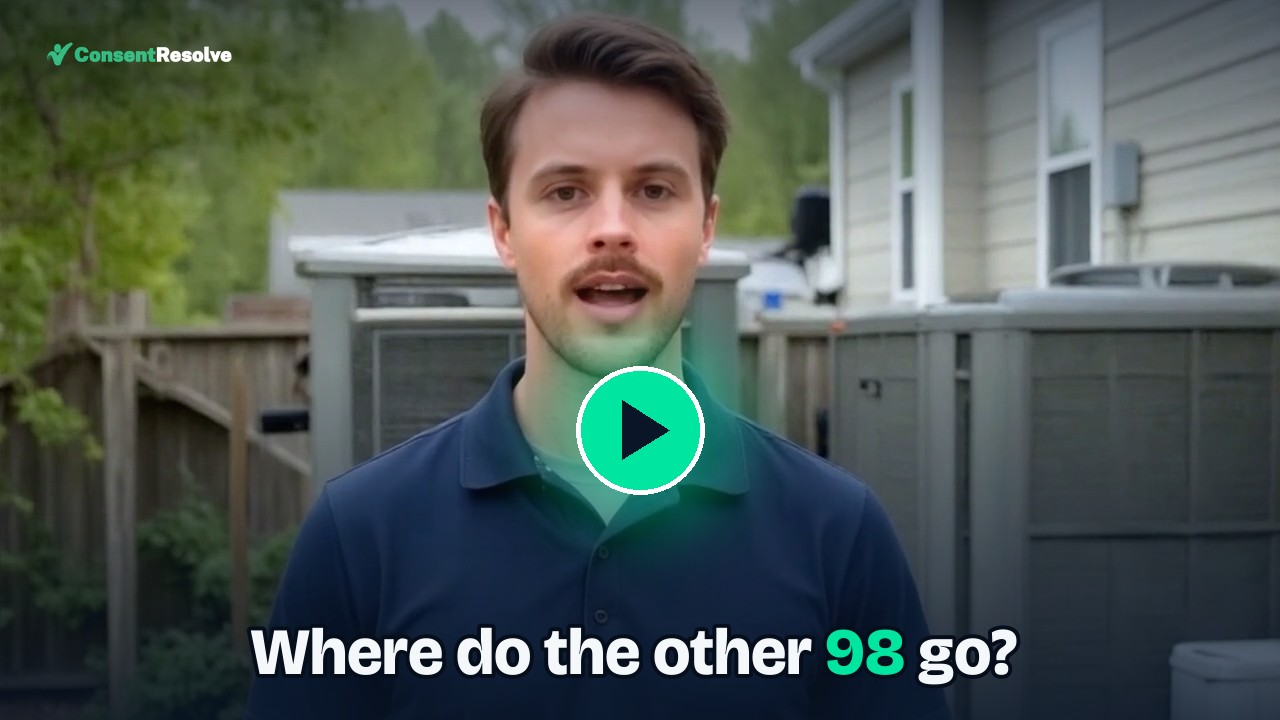
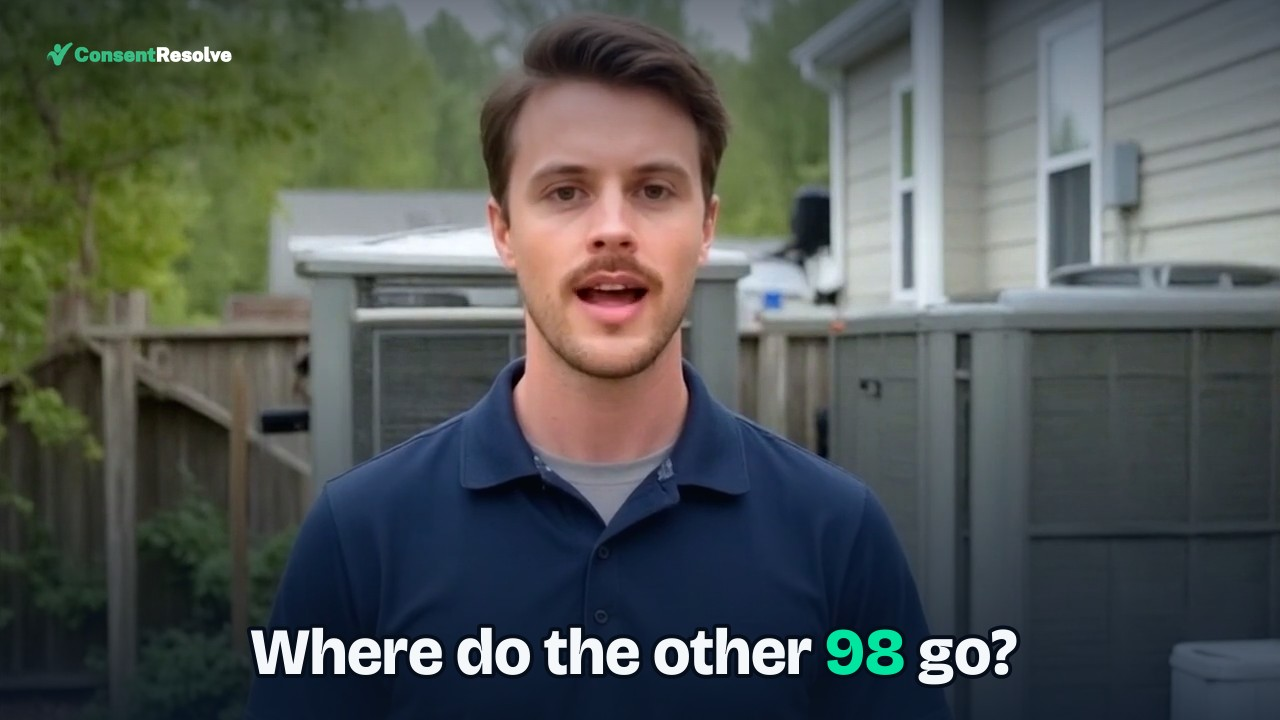
hvac-leads video: hover plays muted preview (from start), custom play button w/ hover-highlight, click plays w/ sound from start; poster regenerated w/o baked play button; TEST(reversible): embed DemoForm in the browser window at video end (replaces grid)

Changed region(s): [[0.375, 0.3972, 0.5938, 0.7639]]

diff --git a/scripts/gen_video_poster.py b/scripts/gen_video_poster.py
@@ -41,14 +41,18 @@ img = Image.alpha_composite(img, grad)
 d = ImageDraw.Draw(img)
 
 # --- Glowing mint play button (the click magnet), lower-center over the chest ---
-cx, cy, r = W // 2, 430, 64
-glow = Image.new("RGBA", (W, H), (0, 0, 0, 0))
-ImageDraw.Draw(glow).ellipse([cx - r * 2, cy - r * 2, cx + r * 2, cy + r * 2], fill=(*MINT, 120))
-img = Image.alpha_composite(img, glow.filter(ImageFilter.GaussianBlur(40)))
+# Pass "noplay" as an extra arg to skip it (e.g. when the page draws its own
+# custom play button overlay, so the poster shouldn't bake one in).
+if "noplay" not in sys.argv:
+    cx, cy, r = W // 2, 430, 64
+    glow = Image.new("RGBA", (W, H), (0, 0, 0, 0))
+    ImageDraw.Draw(glow).ellipse([cx - r * 2, cy - r * 2, cx + r * 2, cy + r * 2], fill=(*MINT, 120))
+    img = Image.alpha_composite(img, glow.filter(ImageFilter.GaussianBlur(40)))
+    d = ImageDraw.Draw(img)
+    d.ellipse([cx - r, cy - r, cx + r, cy + r], fill=(*MINT, 255), outline=(255, 255, 255, 230), width=5)
+    tri = r * 0.46
+    d.polygon([(cx - tri * 0.6, cy - tri), (cx - tri * 0.6, cy + tri), (cx + tri, cy)], fill=NAVY)
 d = ImageDraw.Draw(img)
-d.ellipse([cx - r, cy - r, cx + r, cy + r], fill=(*MINT, 255), outline=(255, 255, 255, 230), width=5)
-tri = r * 0.46
-d.polygon([(cx - tri * 0.6, cy - tri), (cx - tri * 0.6, cy + tri), (cx + tri, cy)], fill=NAVY)
 
 # --- Logo (top-left, small) ---
 try:
